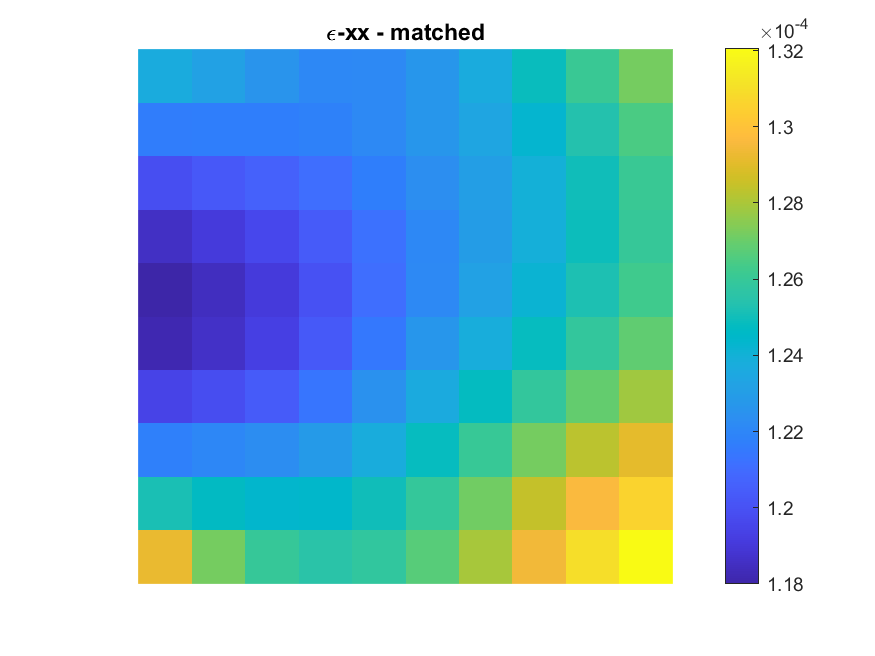
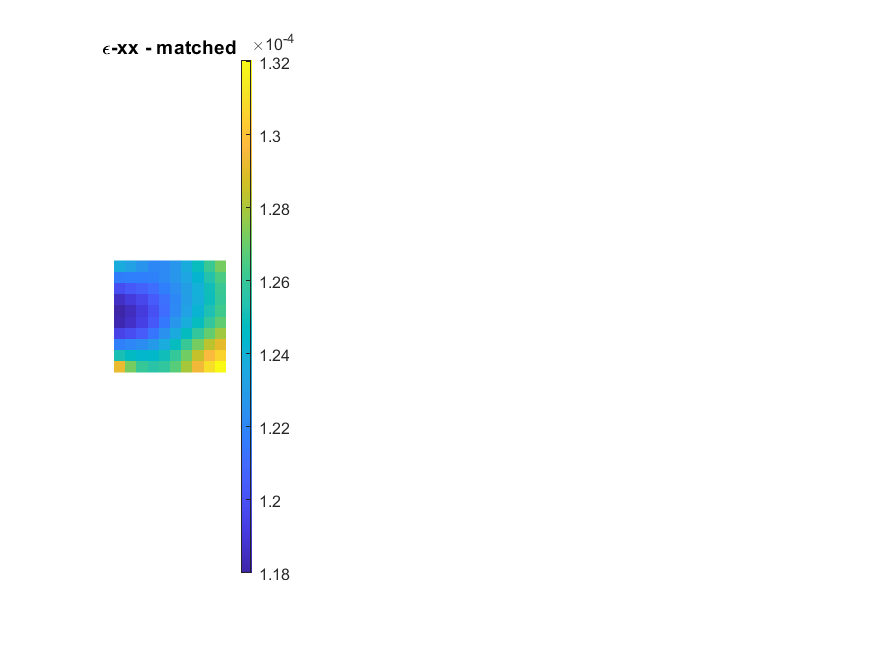
- updated figure numbers

diff --git a/main.m b/main.m
@@ -164,8 +164,8 @@ for i=1:size(plot_titles,2)
 end
 
 % Elastic constants:
-plot_titles = {'Young'};
 fig_num = fig_num +1;
+plot_titles = {'Young'};
 figure(fig_num);                                                            % figure number
 subplot(1,2,1)
 matrix = vector2matrix(E,nels_y,nels_x);                                    % convert vector to matrix for plotting
@@ -183,11 +183,12 @@ saveas(gcf,strcat(output_dir,plot_titles{1},'.png'));                       % sa
 
 % Strains:
 plot_titles = {'epsilon-xx - input', 'epsilon-yy - input', 'epsilon-xy - input'};
+fig_num = fig_num +1; 
 for i=1:size(plot_titles,2)
-    fig_num = fig_num +1;
     figure(fig_num);                                                        % figure number
+    subplot(1,size(plot_titles,2),i)                                        % subplot
     matrix = vector2matrix(epsA(:,i),nels_y,nels_x);                        % convert vector to matrix for plotting
-    imagesc(matrix);colorbar; colormap; axis equal; axis off;               % plot colormap(jet) is another option
+    imagesc(matrix);colorbar; colormap; axis equal; axis off;               % plot color map
     title( strcat('\',plot_titles{i}) );                                    % add plot title
     saveas(gcf,strcat(output_dir,plot_titles{i},'.png'));                   % save images as png file
 end
